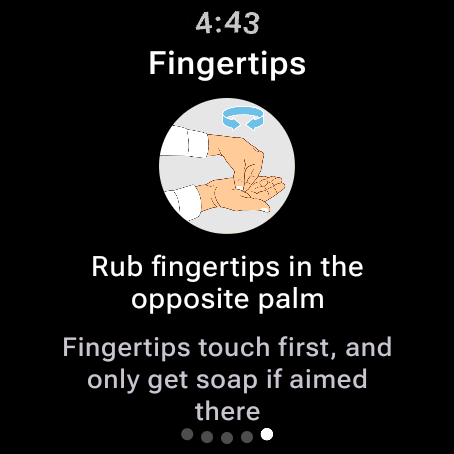
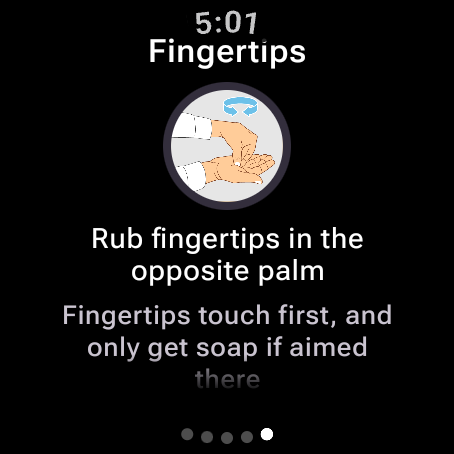
feat(ui): Focus count line, tappable covered line, guide polish; retake screenshots

Changed region(s): [[0.1233, 0.0, 0.8634, 0.9251]]

diff --git a/wear/src/main/java/com/hapticwash/ui/MainActivity.kt b/wear/src/main/java/com/hapticwash/ui/MainActivity.kt
@@ -46,6 +46,9 @@ import androidx.compose.ui.geometry.Offset
 import androidx.compose.ui.graphics.Brush
 import androidx.compose.ui.graphics.TileMode
 import androidx.compose.ui.graphics.Color
+import androidx.compose.ui.graphics.CompositingStrategy
+import androidx.compose.ui.graphics.BlendMode
+import androidx.compose.ui.draw.drawWithContent
 import androidx.compose.ui.graphics.drawscope.DrawScope
 import com.hapticwash.ui.theme.rounded
 import androidx.compose.ui.geometry.center
@@ -113,6 +116,7 @@ import androidx.compose.ui.res.stringResource
 import androidx.compose.ui.semantics.clearAndSetSemantics
 import androidx.compose.ui.semantics.heading
 import androidx.compose.ui.semantics.semantics
+import androidx.compose.ui.semantics.stateDescription
 import androidx.compose.ui.text.style.TextAlign
 import androidx.compose.ui.unit.dp
 import androidx.wear.ambient.AmbientLifecycleObserver
@@ -170,6 +174,7 @@ import com.hapticwash.session.Settings
 import com.hapticwash.session.StepStatus
 import com.hapticwash.session.WashService
 import com.hapticwash.session.allCovered
+import com.hapticwash.session.focusCounts
 import com.hapticwash.session.focusStep
 import com.hapticwash.session.WashSession
 import com.hapticwash.session.worthSaving
@@ -920,7 +925,8 @@ private fun SummaryScreen(id: Long?, fromWash: Boolean = false, onGuide: (Int) -
         WashService.lastWash.value?.takeIf { it.id == id } ?: History.get(context).read().find { it.id == id }
     }
     val steps = stringArrayResource(R.array.steps)
-    val focus = remember(id) { focusStep(History.get(context).read()) }
+    val focus = remember(id) { History.get(context).read().let { h -> focusStep(h)?.let { it to focusCounts(h, it) } } }
+    val focusLabel = focus?.first
     val colors = MaterialTheme.colorScheme
     // Rows arrive in a short cascade as the end pulses play. Decorative: scrolling is never blocked.
     val entrance = remember { Animatable(0f) }
@@ -954,21 +960,22 @@ private fun SummaryScreen(id: Long?, fromWash: Boolean = false, onGuide: (Int) -
                 else -> {
                     item { Notice(stringResource(if (allCovered(wash.coverage)) R.string.washed_for_all else R.string.washed_for, duration(wash.durationS)), morphContent(spec)) }
                     // The Focus Step first: one estimate-language card, opening the same guide as a row.
-                    focus?.let { label ->
-                        item {
-                            Box(
-                                morphContent(spec).clip(RoundedCornerShape(16.dp)).background(colors.primary.copy(alpha = 0.18f))
-                                    .clickable(onClickLabel = stringResource(R.string.open_guide, steps[label - 1]), role = Role.Button) { onGuide(label) }
-                                    .heightIn(min = 48.dp).padding(horizontal = 16.dp, vertical = 8.dp),
-                                contentAlignment = Alignment.Center,
-                            ) {
-                                Text("${stringResource(R.string.focus_step, steps[label - 1])} ›", style = MaterialTheme.typography.labelLarge, textAlign = TextAlign.Center)
-                            }
+                    // Merged into its own row when that Step is on screen as one (below); a card only when it is not.
+                    val attention = wash.coverage.filter { it.status != StepStatus.OK }.ifEmpty { wash.coverage }
+                    if (focus != null && attention.none { it.label == focus.first }) item {
+                        val (label, counts) = focus
+                        Column(
+                            morphContent(spec).clip(RoundedCornerShape(16.dp)).background(colors.primary.copy(alpha = 0.12f))
+                                .clickable(onClickLabel = stringResource(R.string.open_guide, steps[label - 1]), role = Role.Button) { onGuide(label) }
+                                .heightIn(min = 48.dp).padding(horizontal = 16.dp, vertical = 8.dp).semantics(mergeDescendants = true) {},
+                            horizontalAlignment = Alignment.CenterHorizontally,
+                        ) {
+                            Text("${stringResource(R.string.focus_step, steps[label - 1])} ›", style = MaterialTheme.typography.labelMedium, textAlign = TextAlign.Center)
+                            Text(stringResource(R.string.focus_count, counts.first, counts.second), color = colors.onSurfaceVariant, style = MaterialTheme.typography.labelSmall, textAlign = TextAlign.Center)
                         }
                     }
                     // Only Steps that need attention get a row; the covered ones are one line, since they all say the same.
                     // Everything covered: all five stay as rows, so every Step's guide is still one tap away.
-                    val attention = wash.coverage.filter { it.status != StepStatus.OK }.ifEmpty { wash.coverage }
                     items(attention.size) { i ->
                         val c = attention[i]
                         val rise = with(LocalDensity.current) { 6.dp.toPx() }
@@ -978,7 +985,8 @@ private fun SummaryScreen(id: Long?, fromWash: Boolean = false, onGuide: (Int) -
                                 val p = staggered(entrance.value, i)
                                 alpha = p
                                 translationY = (1 - p) * rise
-                            }.clip(RoundedCornerShape(16.dp)).clickable(onClickLabel = stringResource(R.string.open_guide, steps[c.label - 1]), role = Role.Button) { onGuide(c.label) }
+                            }.clip(RoundedCornerShape(16.dp)).background(if (c.label == focusLabel) colors.primary.copy(alpha = 0.12f) else Color.Transparent)
+                                .clickable(onClickLabel = stringResource(R.string.open_guide, steps[c.label - 1]), role = Role.Button) { onGuide(c.label) }
                                 .heightIn(min = 48.dp).padding(horizontal = 16.dp).semantics(mergeDescendants = true) {},
                             horizontalArrangement = Arrangement.spacedBy(8.dp), verticalAlignment = Alignment.CenterVertically) {
                             Box(Modifier.size(32.dp).clip(CircleShape).background(if (c.status == StepStatus.OK) colors.primary.copy(alpha = 0.18f) else colors.surfaceContainer).clearAndSetSemantics {}, contentAlignment = Alignment.Center) {
@@ -991,12 +999,19 @@ private fun SummaryScreen(id: Long?, fromWash: Boolean = false, onGuide: (Int) -
                                     Text(glyph(c.status), Modifier.clearAndSetSemantics {}, color = colors.onSurfaceVariant, style = MaterialTheme.typography.bodySmall)
                                     Text(stringResource(statusText(c.status)), color = colors.onSurfaceVariant, style = MaterialTheme.typography.bodySmall)
                                 }
+                                if (c.label == focusLabel) Text(stringResource(R.string.focus_row, focus!!.second.first, focus.second.second), color = colors.primary, style = MaterialTheme.typography.labelSmall)
                             }
                         }
                     }
                     val covered = wash.coverage.filter { it.status == StepStatus.OK }
                     if (covered.isNotEmpty() && attention.size < wash.coverage.size) item {
-                        Text(stringResource(R.string.covered_steps, covered.joinToString(", ") { steps[it.label - 1] }), morphContent(spec), color = colors.onSurfaceVariant, style = MaterialTheme.typography.bodySmall, textAlign = TextAlign.Center)
+                        // Opens the guides at the first covered Step; the pager walks the rest.
+                        Text(
+                            stringResource(R.string.covered_steps, covered.joinToString(", ") { steps[it.label - 1] }),
+                            morphContent(spec).clip(RoundedCornerShape(16.dp)).clickable(onClickLabel = stringResource(R.string.open_guide, steps[covered.first().label - 1]), role = Role.Button) { onGuide(covered.first().label) }
+                                .heightIn(min = 48.dp).padding(horizontal = 12.dp, vertical = 8.dp),
+                            color = colors.onSurfaceVariant, style = MaterialTheme.typography.bodySmall, textAlign = TextAlign.Center,
+                        )
                     }
                 }
             }
@@ -1025,8 +1040,9 @@ private fun SummaryScreen(id: Long?, fromWash: Boolean = false, onGuide: (Int) -
 private fun GuideScreen(label: Int?) {
     if (label == null || label !in 1..5) return
     val pager = rememberPagerState(initialPage = label - 1) { 5 }
+    // The scrolling area ends above the page dots, so text is clipped cleanly rather than running under them.
     HorizontalPagerScaffold(pager) {
-        HorizontalPager(pager, Modifier.fillMaxSize()) { page -> GuidePage(page + 1) }
+        HorizontalPager(pager, Modifier.fillMaxSize().padding(bottom = 30.dp)) { page -> GuidePage(page + 1) }
     }
 }
 
@@ -1034,14 +1050,25 @@ private fun GuideScreen(label: Int?) {
 private fun GuidePage(label: Int) {
     val colors = MaterialTheme.colorScheme
     val scroll = rememberScrollState()
+    val compact = with(LocalDensity.current) { LocalWindowInfo.current.containerSize.height.toDp() } < 220.dp
+    val art = if (compact) 52.dp else 56.dp
+    val page = stringResource(R.string.page_of, label, 5)
     // Scrolls: on a small screen, or in Spanish, the title, technique and why line don't all fit at once.
     Column(
-        Modifier.fillMaxSize().verticalScroll(scroll).padding(start = 28.dp, end = 28.dp, top = 22.dp, bottom = 36.dp).semantics(mergeDescendants = true) {},
-        verticalArrangement = Arrangement.spacedBy(8.dp),
+        // The last 20 dp fade out, so text that runs past the page dots dissolves rather than being cut by a hard edge.
+        Modifier.fillMaxSize().graphicsLayer { compositingStrategy = CompositingStrategy.Offscreen }.drawWithContent {
+            drawContent()
+            val fade = 20.dp.toPx()
+            drawRect(Brush.verticalGradient(listOf(Color.Black, Color.Transparent), startY = size.height - fade, endY = size.height), blendMode = BlendMode.DstIn)
+        }.verticalScroll(scroll).padding(start = 28.dp, end = 28.dp, top = 16.dp, bottom = 8.dp).semantics(mergeDescendants = true) { stateDescription = page },
+        verticalArrangement = Arrangement.spacedBy(6.dp),
         horizontalAlignment = Alignment.CenterHorizontally,
     ) {
         Text(stringArrayResource(R.array.steps)[label - 1], style = MaterialTheme.typography.titleMedium, textAlign = TextAlign.Center)
-        Image(painterResource(STEP_ART[label - 1]), null, Modifier.size(68.dp).clip(CircleShape))
+        // A dark ring around the light crop, so it does not glare against the black.
+        Box(Modifier.size(art + 8.dp).clip(CircleShape).background(MaterialTheme.colorScheme.surfaceContainer), contentAlignment = Alignment.Center) {
+            Image(painterResource(STEP_ART[label - 1]), null, Modifier.size(art).clip(CircleShape))
+        }
         Text(stringArrayResource(R.array.step_how)[label - 1], style = MaterialTheme.typography.bodyMedium, textAlign = TextAlign.Center)
         Text(stringArrayResource(R.array.step_whys)[label - 1], color = colors.onSurfaceVariant, style = MaterialTheme.typography.labelSmall, textAlign = TextAlign.Center)
     }

diff --git a/wear/src/main/java/com/hapticwash/session/Coverage.kt b/wear/src/main/java/com/hapticwash/session/Coverage.kt
@@ -51,7 +51,7 @@ data class CoverageConfig(
  * [CoverageConfig.focusWindow] `sensor` Washes that show Coverage; no stored state.
  */
 fun focusStep(washes: List<WashSession>, config: CoverageConfig = CoverageConfig()): Int? {
-    val window = washes.filter { it.source == "sensor" && it.coverageShown }.take(config.focusWindow)
+    val window = focusWindow(washes, config)
     if (window.size < config.focusMinWashes) return null
     fun rate(label: Int, vararg statuses: StepStatus) = window.count { w -> w.coverage[label - 1].status in statuses }.toFloat() / window.size
     return (1..5).filter {
@@ -59,6 +59,15 @@ fun focusStep(washes: List<WashSession>, config: CoverageConfig = CoverageConfig
             rate(it, StepStatus.NOT_DETECTED) >= config.focusNotDetectedRate
     } // Highest not-detected rate wins; a tie goes to the later Step (larger label).
         .maxWithOrNull(compareBy({ rate(it, StepStatus.NOT_DETECTED) }, { it }))
+}
+
+private fun focusWindow(washes: List<WashSession>, config: CoverageConfig) =
+    washes.filter { it.source == "sensor" && it.coverageShown }.take(config.focusWindow)
+
+/** What backs the Focus Step: in how many (first) of the last (second) qualifying Washes [label] was NOT_DETECTED. */
+fun focusCounts(washes: List<WashSession>, label: Int, config: CoverageConfig = CoverageConfig()): Pair<Int, Int> {
+    val window = focusWindow(washes, config)
+    return window.count { it.coverage[label - 1].status == StepStatus.NOT_DETECTED } to window.size
 }
 
 /** Causal trailing mean of the last [ModelMeta.movingAverageK] vectors; averages what it has during warm-up. */

diff --git a/wear/src/test/java/com/hapticwash/session/FocusStepTest.kt b/wear/src/test/java/com/hapticwash/session/FocusStepTest.kt
@@ -62,4 +62,11 @@ class FocusStepTest {
         assertNull(focusStep(times(5, allOk) + times(5, thumbsN))) // 50 % of the window
         assertNull(focusStep(times(10, allOk) + times(10, thumbsN))) // older ones fall out
     }
+
+    @Test
+    fun countsAreNotDetectedWashesOutOfTheWindow() {
+        assertEquals(5 to 5, focusCounts(times(5, thumbsN), 4))
+        assertEquals(0 to 6, focusCounts(times(6, allOk), 4))
+        assertEquals(3 to 5, focusCounts(times(3, thumbsN) + times(2, allOk), 4))
+    }
 }

diff --git a/docs/UX_AUDIT.md b/docs/UX_AUDIT.md
@@ -416,3 +416,5 @@ Retaken: summary_coaching (+scrolled), summary_mixed (+scrolled), target_check, 
 _from_focus), guide_between_fingers, credits (+scrolled). Guides are now a pager across the five Steps
 (page dots, swipe sideways; edge swipe or back leaves): all five guide shots and guide_between_fingers_es
 (+ _scrolled, small round AVD) retaken. Not retaken: credits_es. summary_focus_step is now a scrolled Summary.
+
+Second critique (30/40) fixes: the Focus Step shows on its own row (tinted, "Focus next time · N of last M") or, when that Step is not listed, as a card with a count line (`focusCounts`). The covered line is tappable and opens the guide pager. Guide pages have a dark ring round the art, bottom fade above the page dots and a "Page N of 5" state description.
